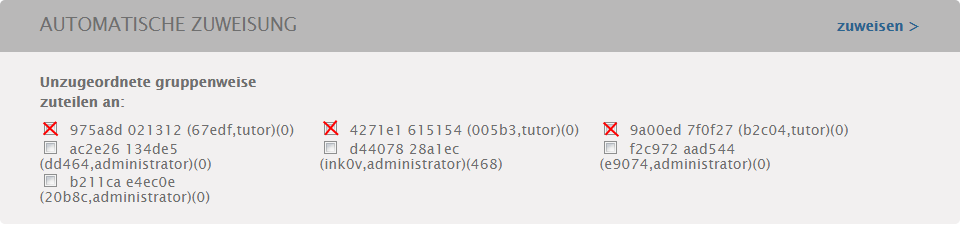
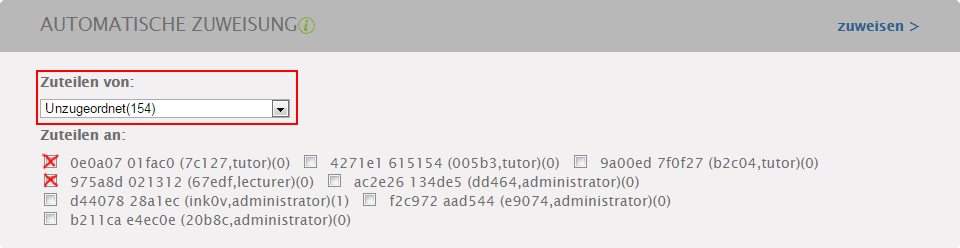
Hilfe aktualisiert

diff --git a/DB/CUIHelp/help/tutorAssign_automatically_de.md b/DB/CUIHelp/help/tutorAssign_automatically_de.md
@@ -2,14 +2,17 @@
 Bisher nicht zugewiesene Einsendungen (**unzugeordnet**) können an Kontrolleure gleichmäßig zugewiesen werden. Dabei werden diese Studentenweise auf die Kontrolleure verteilt.
 
 > ##### 1. Kontrolleure auswählen
+- Wählen Sie die Quelle der Zuweisung aus (Zuteilen von), alle Korrekturen dieses Kontrolleurs werden gleichmäßig auf die Zieltutoren verteilt
+- Wählen Sie einen oder mehrere Kontrolleure aus (Zuteilen an).
 
-Wählen Sie einen oder mehrere Kontrolleure aus.
 ![](autoA.png)
 
 > ##### 2. Zuweisung auslösen
 
 ![](autoB.png)
+
 Die Zuweisung war erfolgreich, wenn ein grüner Schriftzug erscheint. Sollte es eine Zeitüberschreitung der Anfrage oder andere Fehlermeldung geben, sollten Sie zunächst versuchen die Aktion zu wiederholen (eventuell wurden dabei bereits Teile der Einsendungen den Kontrolleuren zugeordnet).
 
 ![](autoC.png)
+
 Nun sollten die zugeordneten Einsendungen im Bereich **MANUELLE ZUWEISUNG**, bei den entsprechenden Kontrolleuren, sichtbar sein.
